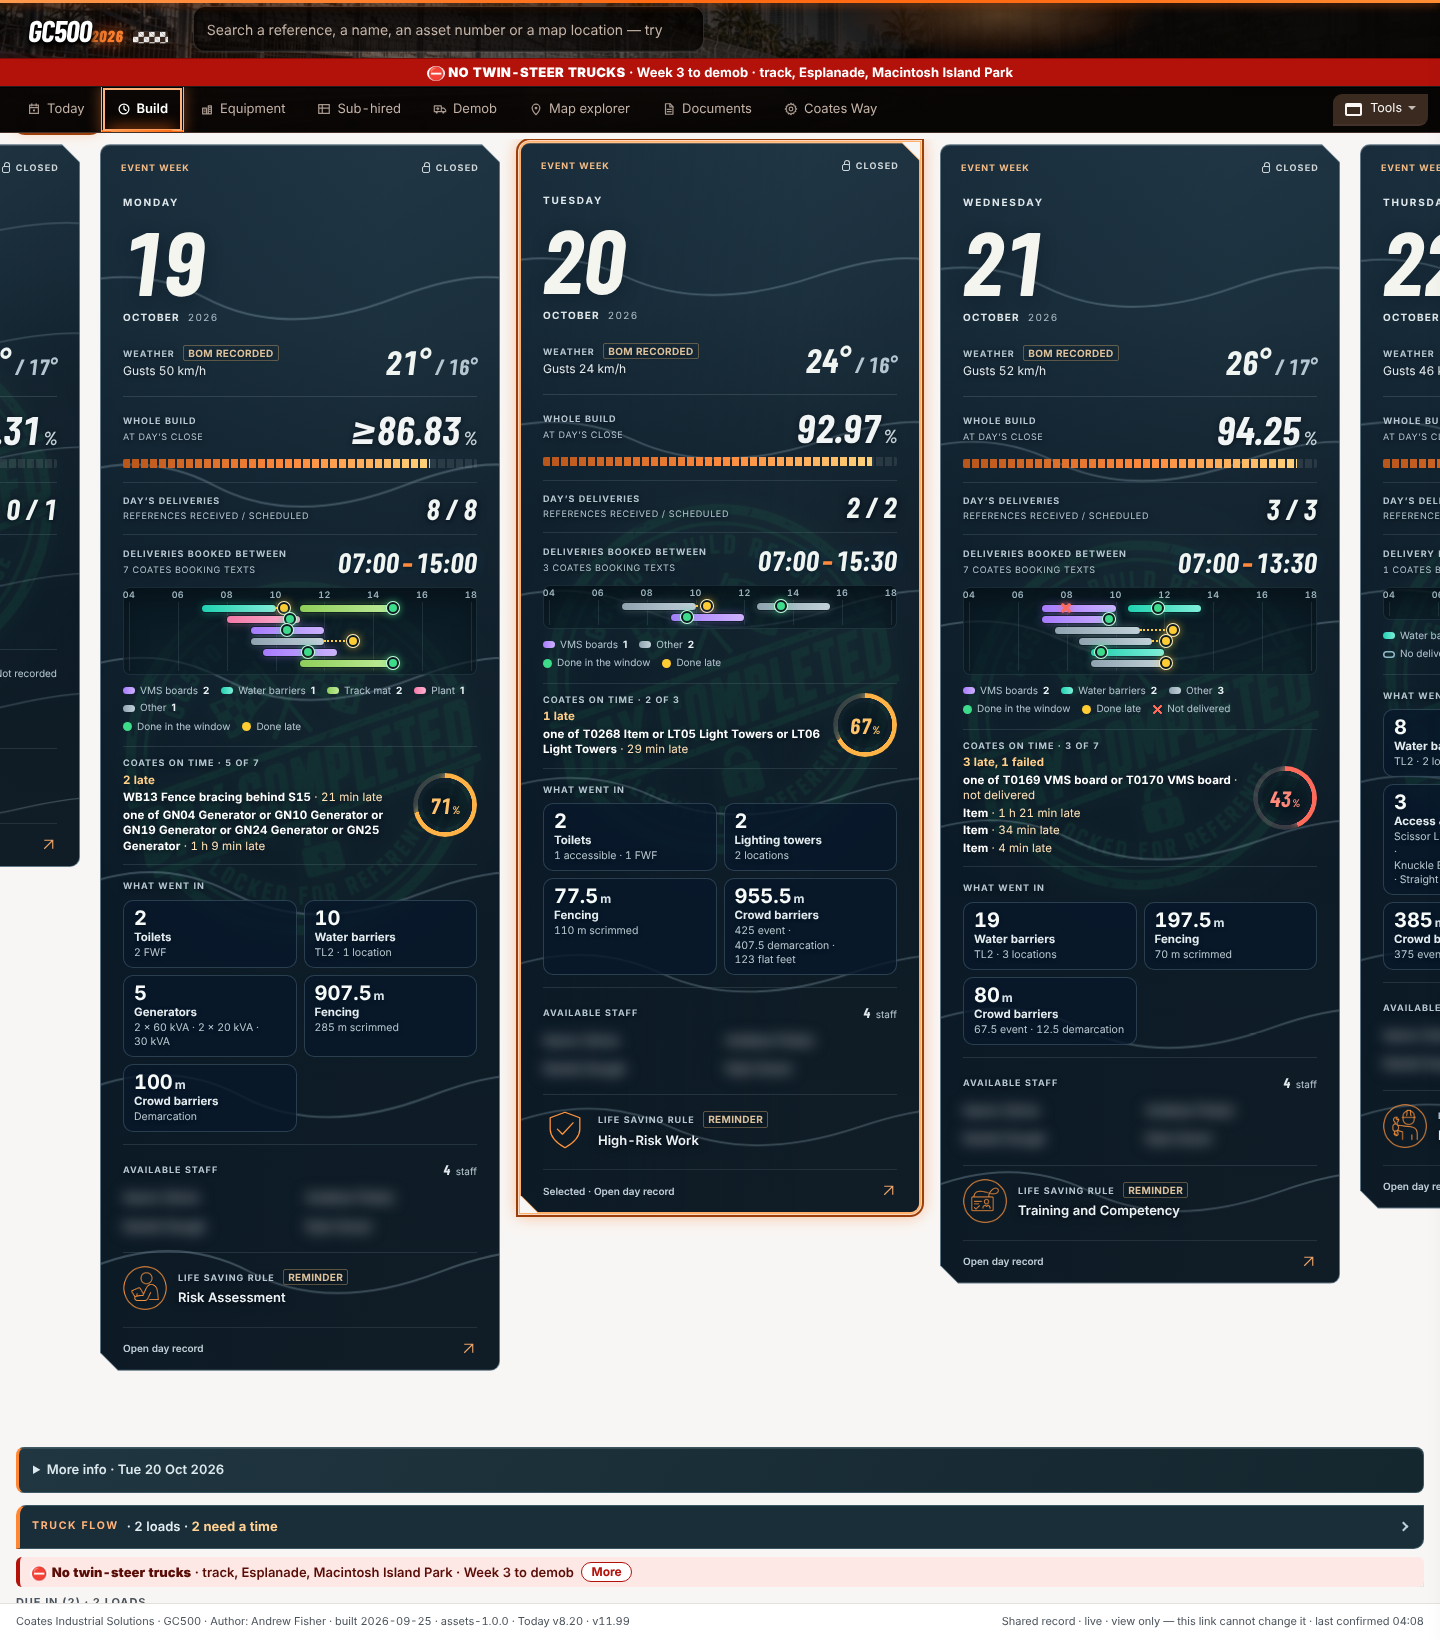
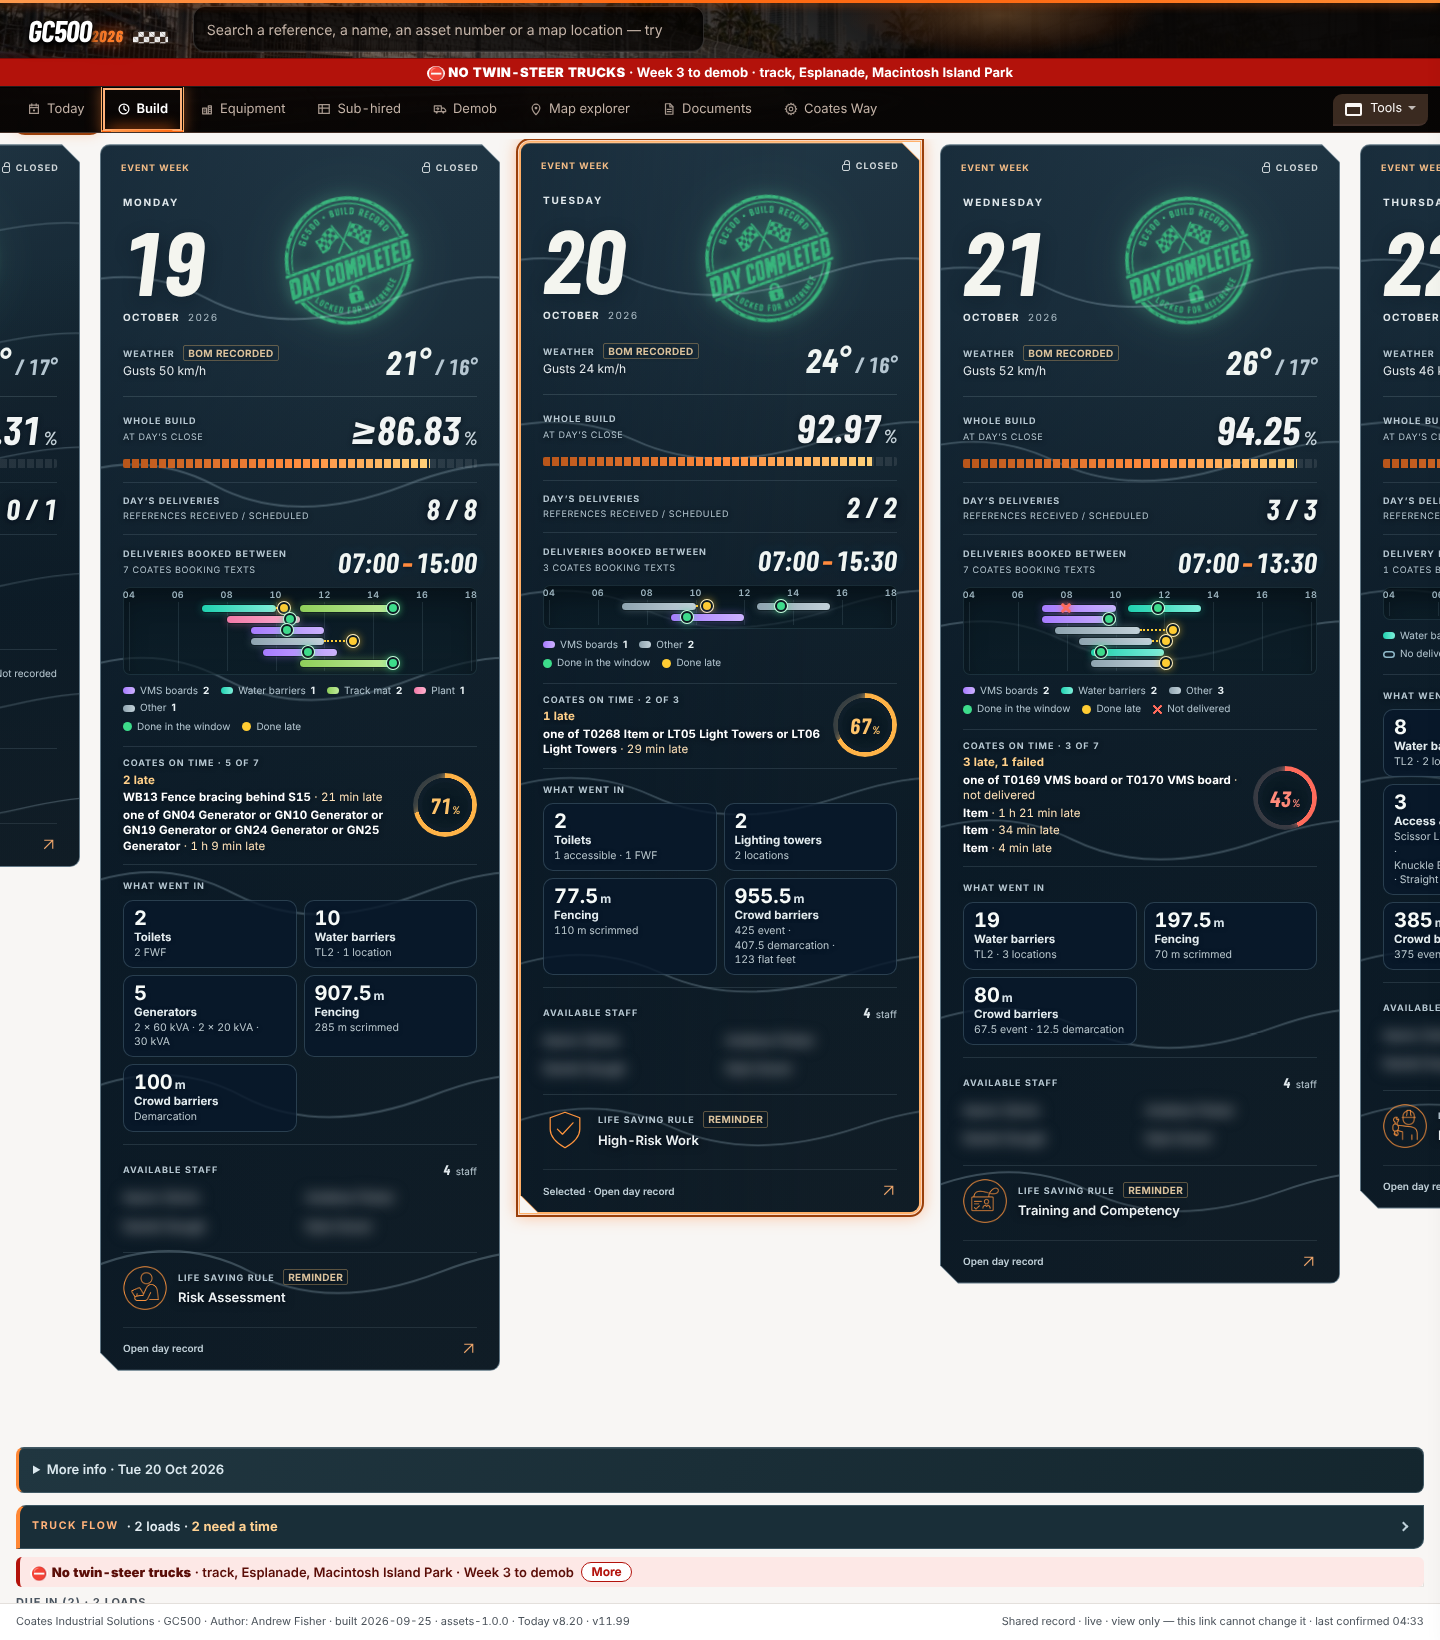
v11.99 Build cards: the seal centred in the gap beside the date; candidate replaced, ready to upload
Claude-Session: https://claude.ai/code/session_01GNRrrx1C9yJ5N627f7yfrr

Changed region(s): [[0.4688, 0.0933, 0.5938, 0.2177], [0.7812, 0.0933, 0.875, 0.2177], [0.1875, 0.0933, 0.2812, 0.2177]]

diff --git a/03_GC500_Delivery_Control/v11.99_build_cards_DRAFT/cards1197.css b/03_GC500_Delivery_Control/v11.99_build_cards_DRAFT/cards1197.css
@@ -9,8 +9,9 @@
 :is(#pane-timeline,#pane-demob) .cat-pl{--gear:#f27aa8;--gear2:#ffb3cf}
 :is(#pane-timeline,#pane-demob) .cat-oth{--gear:#8fa4b0;--gear2:#c3d2da}
 
-/* the card lifted: the closed-day stamp steps back so the figures read; whole build as a segmented rev bar; on time as a ring */
-:is(#pane-timeline,#pane-demob) .day .bc984-card>.bc984-stamp{opacity:.1!important}
+/* the card lifted: the closed-day stamp moves into the gap beside the date; whole build as a segmented rev bar; on time as a ring */
+:is(#pane-timeline,#pane-demob) .day .bc984-card>.bc984-stamp{left:calc(50% + 48px);inset-inline-start:calc(50% + 48px);top:115px;width:142px;opacity:.88!important;z-index:3} /* Andrew: "Does the stamp go in the gap", "Needs to look centred in that gap more" - the seal sits centred between the date and the card's edge, under CLOSED and above the weather */
+@media(max-width:360px){:is(#pane-timeline,#pane-demob) .day .bc984-card>.bc984-stamp{left:calc(50% + 43px);inset-inline-start:calc(50% + 43px);width:124px}}
 :is(#pane-timeline,#pane-demob) .bc984-progress .bc984-rail{height:9px;margin-top:10px;border-radius:2px;background:repeating-linear-gradient(90deg,#ffffff17 0 7px,transparent 7px 9px);overflow:hidden}
 :is(#pane-timeline,#pane-demob) .bc984-progress .bc984-rail i{height:100%;border-radius:0;background:linear-gradient(90deg,#b8551a,#ff8a3d 55%,#ffd27a);-webkit-mask:repeating-linear-gradient(90deg,#000 0 7px,transparent 7px 9px);mask:repeating-linear-gradient(90deg,#000 0 7px,transparent 7px 9px);filter:drop-shadow(0 0 6px #ff8a3daa)}
 :is(#pane-timeline,#pane-demob) .bc984-load-count.bw1197-ring{position:relative;display:flex;justify-content:center;align-items:baseline;flex:none;width:64px;height:64px;font-size:22px;line-height:64px;border-radius:50%;background:radial-gradient(closest-side,#0b1b2399 70%,transparent 72%)}

diff --git a/03_GC500_Delivery_Control/STATUS.md b/03_GC500_Delivery_Control/STATUS.md
@@ -1,3 +1,5 @@
+READY TO UPLOAD (candidate replaced) — v11.99 Build cards (Claude, for Andrew), 25 Oct 2026 04:38 AEST. Andrew after the 04:22 READY: "Does the stamp go in the gap" and "Needs to look centred in that gap more come on mate": the closed-day seal now sits centred in the gap beside the date (left calc(50% + 48px), top 115px, 142px, opacity 0.88), measured on all 46 closed cards within 8 px of the gap centre and 10 px clear of the digits, CLOSED and the weather. New candidate 2c653073230aa8533fd2121cf87f3459c6fbde66a0aac22df564dc55161e671e (22,045,297 bytes) on live v11.98 6e92bd7e5fb09b86d2d184638a9cea3d41d02509c4fdd4243b8ce5ab273c7dc7, replacing ec3db538; rules 36/36; native 26/26 desktop and phone; sweeps 27/19/7/Back, 0 errors, 0 writes. Author: Andrew Fisher.
+
 READY TO UPLOAD — v11.99 Build cards: delivery windows, the recorded weather and the cards lifted (Claude, for Andrew), 25 Oct 2026 04:22 AEST. Andrew's yes in this chat: "Both parts, as shown" (to: put live the load cards with "Delivery booked between…" and the day cards with the time line, ring, progress bar and weather, exactly as in the screenshots). Source v11.99_build_cards_DRAFT at 82c26aca; base live v11.98 6e92bd7e5fb09b86d2d184638a9cea3d41d02509c4fdd4243b8ce5ab273c7dc7; built ec3db53854506c10a1c9e4f59ff5d32e44a490274ee649f5a340367a05a2a083 (22,044,860 bytes). Rules 36/36; native 26/26 desktop and phone; sweeps 27/19/7/Back, 0 errors, 0 writes. Codex's v12.00 (claimed 04:18) rebuilds on this when it lands. Author: Andrew Fisher.
 
 CLAIMED — v12.00 measured loading and responsiveness improvements (Codex, for Andrew), 25 Oct 2026 04:18 AEST. Andrew directly requested in Codex chat faster loading, responsive updates, clear high-resolution rendering and animation, fewer errors/freezes, and easier finding. First scope: measure current startup/download, long tasks, tab/search response, idle redraw and high-DPI rendering; implement bounded, evidenced performance defects without reducing source-image quality or changing business facts. Start from ccr-061f77e8-ivjhrv at 82c26acaca004f27de3e36235737e00add6299ec and verified live v11.98 6e92bd7e5fb09b86d2d184638a9cea3d41d02509c4fdd4243b8ce5ab273c7dc7. Claude retains v11.99 Build cards and its mock-up hold, and the separate Samsung Internet handset investigation after the race. No takeover of those scopes, operational record writes, rates, map positions or speculative server changes. This is a measured optimisation claim, not a promise of universal 4K/instant response or zero defects. Rebuild and retest against latest live before guarded publication. Author: Andrew Fisher.

diff --git a/03_GC500_Delivery_Control/v11.99_build_cards_DRAFT/README.md b/03_GC500_Delivery_Control/v11.99_build_cards_DRAFT/README.md
@@ -45,7 +45,7 @@ Footer reads v11.99. No record, rate, servicing, crew card, QR code, map positio
   - There's no chip where a text could be one of several references, or where one text served a set of references. The page can't tell which unit it was.
 - **Coates on time** draws its own percentage as a ring, green, amber or red by its existing tone.
 - **Whole build** draws its own percentage as a segmented rev bar.
-- **The closed-day stamp** steps back to a faint watermark (opacity 0.1) so the figures read.
+- **The closed-day stamp** moves into the gap beside the date, at Andrew's asking: "Does the stamp go in the gap" and "Needs to look centred in that gap more". It's a crisp seal centred between the digits and the card's edge, under CLOSED and above the weather. Measured on all 46 closed cards: within 8 px of centre and 10 px clear of each.
 
 ## Files
 
@@ -59,7 +59,7 @@ Footer reads v11.99. No record, rate, servicing, crew card, QR code, map positio
 ## Base and candidate
 
[3 lines of base64/hex data omitted]
 
 ## Checks
 
